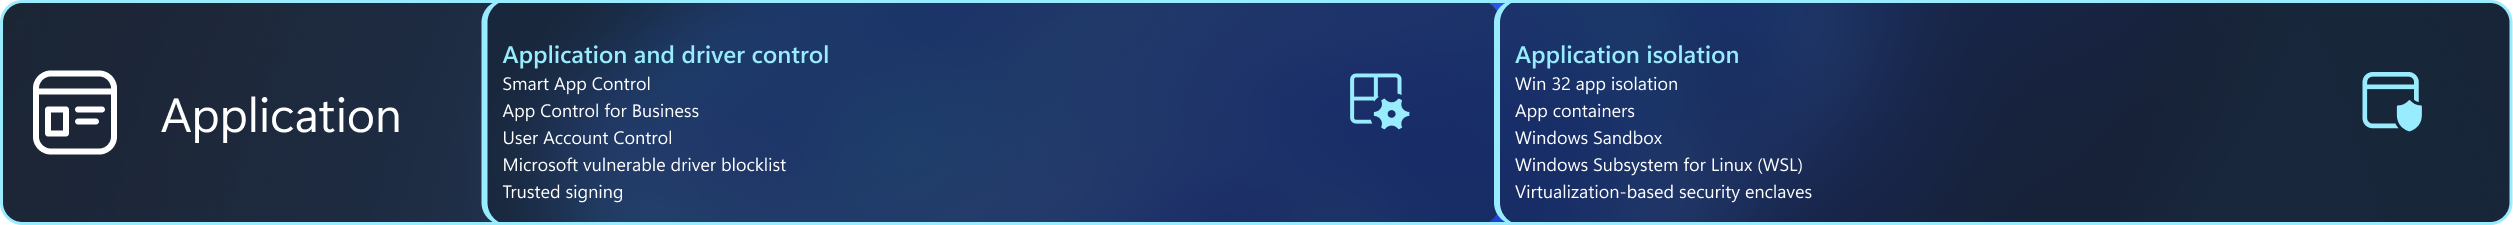
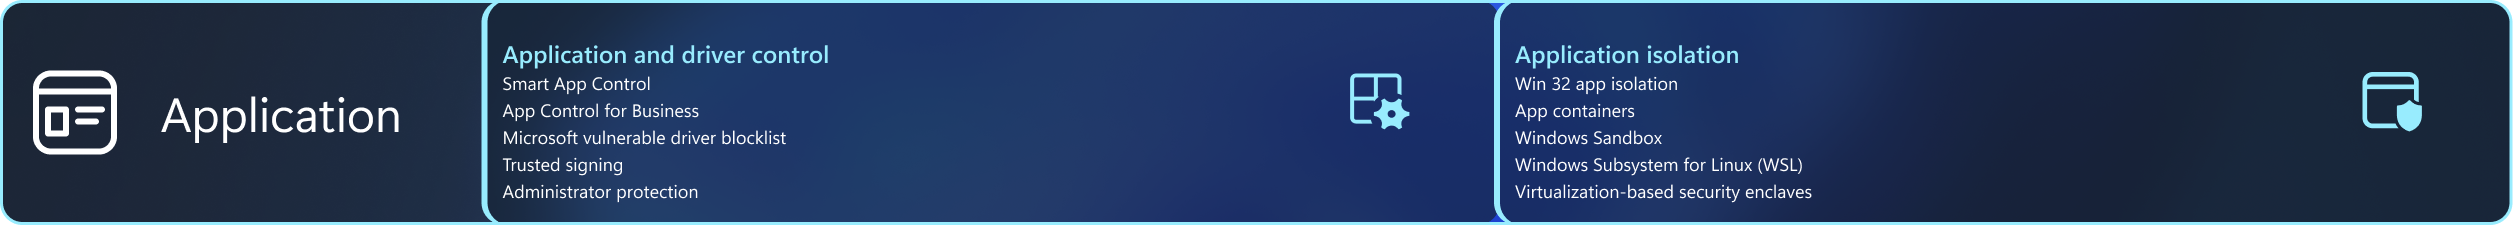
removed uac

Changed region(s): [[0.1862, 0.8089, 0.2793, 0.9022], [0.1862, 0.7156, 0.3104, 0.7778], [0.1862, 0.5911, 0.3104, 0.6533]]

diff --git a/windows/security/book/features-index.md b/windows/security/book/features-index.md
@@ -7,4 +7,4 @@ ms.date: 09/06/2024
 
 # Features index
 
-[5G and eSIM](operating-system-security-network-security.md#5g-and-esim)<br>[Access management and control](identity-protection-advanced-credential-protection.md#access-management-and-control)<br>[Account lockout policies](identity-protection-advanced-credential-protection.md#account-lockout-policies)<br>[App containers](application-security-application-isolation.md#app-containers)<br>[App Control for Business](application-security-application-and-driver-control.md#app-control-for-business)<br>[Attack surface reduction rules](operating-system-security-virus-and-threat-protection.md#attack-surface-reduction-rules)<br>[BitLocker To Go](operating-system-security-encryption-and-data-protection.md#bitlocker-to-go)<br>[BitLocker](operating-system-security-encryption-and-data-protection.md#bitlocker)<br>[Bluetooth protection](operating-system-security-network-security.md#bluetooth-protection)<br>[Certificates](operating-system-security-system-security.md#certificates)<br>[Cloud-native device management](cloud-services-protect-your-work-information.md#cloud-native-device-management)<br>[Code signing and integrity](operating-system-security-system-security.md#code-signing-and-integrity)<br>[Common Criteria (CC)](security-foundation-certification.md#common-criteria-cc)<br>[Config Refresh](operating-system-security-system-security.md#-config-refresh)<br>[Controlled folder access](operating-system-security-virus-and-threat-protection.md#controlled-folder-access)<br>[Credential Guard](identity-protection-advanced-credential-protection.md#credential-guard)<br>[Cryptography](operating-system-security-system-security.md#cryptography)<br>[Device Encryption](operating-system-security-encryption-and-data-protection.md#device-encryption)<br>[Device health attestation](operating-system-security-system-security.md#device-health-attestation)<br>[Domain Name System (DNS) security](operating-system-security-network-security.md#domain-name-system-dns-security)<br>[Email encryption](operating-system-security-encryption-and-data-protection.md#email-encryption)<br>[Encrypted hard drive](operating-system-security-encryption-and-data-protection.md#encrypted-hard-drive)<br>[Enhanced phishing protection in Microsoft Defender SmartScreen](identity-protection-passwordless-sign-in.md#enhanced-phishing-protection-in-microsoft-defender-smartscreen)<br>[Enhanced Sign-in Security (ESS)](identity-protection-passwordless-sign-in.md#enhanced-sign-in-security-ess)<br>[Exploit protection](operating-system-security-virus-and-threat-protection.md#exploit-protection)<br>[Federal Information Processing Standard (FIPS)](security-foundation-certification.md#federal-information-processing-standard-fips)<br>[Federated sign-in](identity-protection-passwordless-sign-in.md#federated-sign-in)<br>[FIDO2](identity-protection-passwordless-sign-in.md#fido2)<br>[Find my device](cloud-services-protect-your-personal-information.md#find-my-device)<br>[Kernel Direct Memory Access (DMA) protection](hardware-security-silicon-assisted-security.md#kernel-direct-memory-access-dma-protection)<br>[Kiosk mode](operating-system-security-system-security.md#kiosk-mode)<br>[Local Security Authority (LSA) protection](identity-protection-advanced-credential-protection.md#local-security-authority-lsa-protection)<br>[Microsoft Account](cloud-services-protect-your-personal-information.md#microsoft-account)<br>[Microsoft Authenticator](identity-protection-passwordless-sign-in.md#microsoft-authenticator)<br>[Microsoft Azure Attestation Service](cloud-services-protect-your-work-information.md#microsoft-azure-attestation-service)<br>[Microsoft Defender Antivirus](operating-system-security-virus-and-threat-protection.md#microsoft-defender-antivirus)<br>[Microsoft Defender for Endpoint](operating-system-security-virus-and-threat-protection.md#microsoft-defender-for-endpoint)<br>[Microsoft Defender SmartScreen](operating-system-security-virus-and-threat-protection.md#microsoft-defender-smartscreen)<br>[Microsoft Entra ID](cloud-services-protect-your-work-information.md#microsoft-entra-id)<br>[Microsoft Intune](cloud-services-protect-your-work-information.md#microsoft-intune)<br>[Microsoft Offensive Research and Security Engineering](security-foundation-offensive-research.md#microsoft-offensive-research-and-security-engineering)<br>[Microsoft Pluton security processor](hardware-security-hardware-root-of-trust.md#microsoft-pluton-security-processor)<br>[Microsoft security baselines](cloud-services-protect-your-work-information.md#microsoft-security-baselines)<br>[Microsoft Security Development Lifecycle (SDL)](security-foundation-offensive-research.md#microsoft-security-development-lifecycle-sdl)<br>[Microsoft vulnerable driver blocklist](application-security-application-and-driver-control.md#microsoft-vulnerable-driver-blocklist)<br>[Network protection](operating-system-security-virus-and-threat-protection.md#network-protection)<br>[OneDrive for personal](cloud-services-protect-your-personal-information.md#onedrive-for-personal)<br>[OneDrive for work or school](cloud-services-protect-your-work-information.md#onedrive-for-work-or-school)<br>[OneDrive Personal Vault](cloud-services-protect-your-personal-information.md#onedrive-personal-vault)<br>[OneFuzz service](security-foundation-offensive-research.md#onefuzz-service)<br>[Personal data encryption (PDE)](operating-system-security-encryption-and-data-protection.md#personal-data-encryption-pde)<br>[Privacy dashboard and report](privacy-controls.md#privacy-dashboard-and-report)<br>[Privacy resource usage](privacy-controls.md#privacy-resource-usage)<br>[Privacy transparency and controls](privacy-controls.md#privacy-transparency-and-controls)<br>[Remote Credential Guard](identity-protection-advanced-credential-protection.md#remote-credential-guard)<br>[Remote Wipe](cloud-services-protect-your-work-information.md#remote-wipe)<br>[Rust in Windows](operating-system-security-system-security.md#-rust-in-windows)<br>[Secure Future Initiative (SFI)](security-foundation-offensive-research.md#secure-future-initiative-sfi)<br>[Secured kernel](hardware-security-silicon-assisted-security.md#secured-kernel)<br>[Secured-core PC](hardware-security-silicon-assisted-security.md#secured-core-pc)<br>[Server Message Block file services](operating-system-security-network-security.md#server-message-block-file-services)<br>[Smart App Control](application-security-application-and-driver-control.md#smart-app-control)<br>[Smart cards](identity-protection-passwordless-sign-in.md#smart-cards)<br>[Software bill of materials (SBOM)](security-foundation-secure-supply-chain.md#software-bill-of-materials-sbom)<br>[Tamper protection](operating-system-security-virus-and-threat-protection.md#tamper-protection)<br>[Token protection (preview)](identity-protection-advanced-credential-protection.md#token-protection-preview)<br>[Transport Layer Security (TLS)](operating-system-security-network-security.md#transport-layer-security-tls)<br>[Trusted Boot (Secure Boot + Measured Boot)](operating-system-security-system-security.md#trusted-boot-secure-boot--measured-boot)<br>[Trusted Platform Module (TPM)](hardware-security-hardware-root-of-trust.md#trusted-platform-module-tpm)<br>[Trusted signing](application-security-application-and-driver-control.md#-trusted-signing)<br>[Universal Print](cloud-services-protect-your-work-information.md#universal-print)<br>[User Account Control](application-security-application-and-driver-control.md#user-account-control)<br>[VBS key protection](identity-protection-advanced-credential-protection.md#-vbs-key-protection)<br>[Virtual private networks (VPN)](operating-system-security-network-security.md#virtual-private-networks-vpn)<br>[Virtualization-based security enclaves](application-security-application-isolation.md#-virtualization-based-security-enclaves)<br>[Web sign-in](identity-protection-passwordless-sign-in.md#web-sign-in)<br>[Wi-Fi connections](operating-system-security-network-security.md#wi-fi-connections)<br>[Win32 app isolation](application-security-application-isolation.md#-win32-app-isolation)<br>[Windows App software development kit (SDK)](security-foundation-secure-supply-chain.md#windows-app-software-development-kit-sdk)<br>[Windows Autopatch](cloud-services-protect-your-work-information.md#windows-autopatch)<br>[Windows Autopilot](cloud-services-protect-your-work-information.md#windows-autopilot)<br>[Windows diagnostic data processor configuration](privacy-controls.md#windows-diagnostic-data-processor-configuration)<br>[Windows enrollment attestation](cloud-services-protect-your-work-information.md#windows-enrollment-attestation)<br>[Windows Firewall](operating-system-security-network-security.md#windows-firewall)<br>[Windows Hello for Business](identity-protection-passwordless-sign-in.md#windows-hello-for-business)<br>[Windows Hello](identity-protection-passwordless-sign-in.md#windows-hello)<br>[Windows Insider and Bug Bounty program](security-foundation-offensive-research.md#windows-insider-and-bug-bounty-program)<br>[Windows Local Administrator Password Solution (LAPS)](cloud-services-protect-your-work-information.md#windows-local-administrator-password-solution-laps)<br>[Windows presence sensing](identity-protection-passwordless-sign-in.md#windows-presence-sensing)<br>[Windows protected print mode](operating-system-security-system-security.md#-windows-protected-print-mode)<br>[Windows Sandbox](application-security-application-isolation.md#windows-sandbox)<br>[Windows security policy settings and auditing](operating-system-security-system-security.md#windows-security-policy-settings-and-auditing)<br>[Windows security settings](operating-system-security-system-security.md#windows-security-settings)<br>[Windows Subsystem for Linux (WSL)](application-security-application-isolation.md#windows-subsystem-for-linux-wsl)<br>[Windows Update for Business](cloud-services-protect-your-work-information.md#windows-update-for-business)
+[5G and eSIM](operating-system-security-network-security.md#5g-and-esim)<br>[Access management and control](identity-protection-advanced-credential-protection.md#access-management-and-control)<br>[Account lockout policies](identity-protection-advanced-credential-protection.md#account-lockout-policies)<br>[App containers](application-security-application-isolation.md#app-containers)<br>[Administrator protection](application-security-application-and-driver-control.md#-administrator-protection)<br>[App Control for Business](application-security-application-and-driver-control.md#app-control-for-business)<br>[Attack surface reduction rules](operating-system-security-virus-and-threat-protection.md#attack-surface-reduction-rules)<br>[BitLocker To Go](operating-system-security-encryption-and-data-protection.md#bitlocker-to-go)<br>[BitLocker](operating-system-security-encryption-and-data-protection.md#bitlocker)<br>[Bluetooth protection](operating-system-security-network-security.md#bluetooth-protection)<br>[Certificates](operating-system-security-system-security.md#certificates)<br>[Cloud-native device management](cloud-services-protect-your-work-information.md#cloud-native-device-management)<br>[Code signing and integrity](operating-system-security-system-security.md#code-signing-and-integrity)<br>[Common Criteria (CC)](security-foundation-certification.md#common-criteria-cc)<br>[Config Refresh](operating-system-security-system-security.md#-config-refresh)<br>[Controlled folder access](operating-system-security-virus-and-threat-protection.md#controlled-folder-access)<br>[Credential Guard](identity-protection-advanced-credential-protection.md#credential-guard)<br>[Cryptography](operating-system-security-system-security.md#cryptography)<br>[Device Encryption](operating-system-security-encryption-and-data-protection.md#device-encryption)<br>[Device health attestation](operating-system-security-system-security.md#device-health-attestation)<br>[Domain Name System (DNS) security](operating-system-security-network-security.md#domain-name-system-dns-security)<br>[Email encryption](operating-system-security-encryption-and-data-protection.md#email-encryption)<br>[Encrypted hard drive](operating-system-security-encryption-and-data-protection.md#encrypted-hard-drive)<br>[Enhanced phishing protection in Microsoft Defender SmartScreen](identity-protection-passwordless-sign-in.md#enhanced-phishing-protection-in-microsoft-defender-smartscreen)<br>[Enhanced Sign-in Security (ESS)](identity-protection-passwordless-sign-in.md#enhanced-sign-in-security-ess)<br>[Exploit protection](operating-system-security-virus-and-threat-protection.md#exploit-protection)<br>[Federal Information Processing Standard (FIPS)](security-foundation-certification.md#federal-information-processing-standard-fips)<br>[Federated sign-in](identity-protection-passwordless-sign-in.md#federated-sign-in)<br>[FIDO2](identity-protection-passwordless-sign-in.md#fido2)<br>[Find my device](cloud-services-protect-your-personal-information.md#find-my-device)<br>[Kernel Direct Memory Access (DMA) protection](hardware-security-silicon-assisted-security.md#kernel-direct-memory-access-dma-protection)<br>[Kiosk mode](operating-system-security-system-security.md#kiosk-mode)<br>[Local Security Authority (LSA) protection](identity-protection-advanced-credential-protection.md#local-security-authority-lsa-protection)<br>[Microsoft Account](cloud-services-protect-your-personal-information.md#microsoft-account)<br>[Microsoft Authenticator](identity-protection-passwordless-sign-in.md#microsoft-authenticator)<br>[Microsoft Azure Attestation Service](cloud-services-protect-your-work-information.md#microsoft-azure-attestation-service)<br>[Microsoft Defender Antivirus](operating-system-security-virus-and-threat-protection.md#microsoft-defender-antivirus)<br>[Microsoft Defender for Endpoint](operating-system-security-virus-and-threat-protection.md#microsoft-defender-for-endpoint)<br>[Microsoft Defender SmartScreen](operating-system-security-virus-and-threat-protection.md#microsoft-defender-smartscreen)<br>[Microsoft Entra ID](cloud-services-protect-your-work-information.md#microsoft-entra-id)<br>[Microsoft Intune](cloud-services-protect-your-work-information.md#microsoft-intune)<br>[Microsoft Offensive Research and Security Engineering](security-foundation-offensive-research.md#microsoft-offensive-research-and-security-engineering)<br>[Microsoft Pluton security processor](hardware-security-hardware-root-of-trust.md#microsoft-pluton-security-processor)<br>[Microsoft security baselines](cloud-services-protect-your-work-information.md#microsoft-security-baselines)<br>[Microsoft Security Development Lifecycle (SDL)](security-foundation-offensive-research.md#microsoft-security-development-lifecycle-sdl)<br>[Microsoft vulnerable driver blocklist](application-security-application-and-driver-control.md#microsoft-vulnerable-driver-blocklist)<br>[Network protection](operating-system-security-virus-and-threat-protection.md#network-protection)<br>[OneDrive for personal](cloud-services-protect-your-personal-information.md#onedrive-for-personal)<br>[OneDrive for work or school](cloud-services-protect-your-work-information.md#onedrive-for-work-or-school)<br>[OneDrive Personal Vault](cloud-services-protect-your-personal-information.md#onedrive-personal-vault)<br>[OneFuzz service](security-foundation-offensive-research.md#onefuzz-service)<br>[Personal data encryption (PDE)](operating-system-security-encryption-and-data-protection.md#personal-data-encryption-pde)<br>[Privacy dashboard and report](privacy-controls.md#privacy-dashboard-and-report)<br>[Privacy resource usage](privacy-controls.md#privacy-resource-usage)<br>[Privacy transparency and controls](privacy-controls.md#privacy-transparency-and-controls)<br>[Remote Credential Guard](identity-protection-advanced-credential-protection.md#remote-credential-guard)<br>[Remote Wipe](cloud-services-protect-your-work-information.md#remote-wipe)<br>[Rust in Windows](operating-system-security-system-security.md#-rust-in-windows)<br>[Secure Future Initiative (SFI)](security-foundation-offensive-research.md#secure-future-initiative-sfi)<br>[Secured kernel](hardware-security-silicon-assisted-security.md#secured-kernel)<br>[Secured-core PC](hardware-security-silicon-assisted-security.md#secured-core-pc)<br>[Server Message Block file services](operating-system-security-network-security.md#server-message-block-file-services)<br>[Smart App Control](application-security-application-and-driver-control.md#smart-app-control)<br>[Smart cards](identity-protection-passwordless-sign-in.md#smart-cards)<br>[Software bill of materials (SBOM)](security-foundation-secure-supply-chain.md#software-bill-of-materials-sbom)<br>[Tamper protection](operating-system-security-virus-and-threat-protection.md#tamper-protection)<br>[Token protection (preview)](identity-protection-advanced-credential-protection.md#token-protection-preview)<br>[Transport Layer Security (TLS)](operating-system-security-network-security.md#transport-layer-security-tls)<br>[Trusted Boot (Secure Boot + Measured Boot)](operating-system-security-system-security.md#trusted-boot-secure-boot--measured-boot)<br>[Trusted Platform Module (TPM)](hardware-security-hardware-root-of-trust.md#trusted-platform-module-tpm)<br>[Trusted signing](application-security-application-and-driver-control.md#-trusted-signing)<br>[Universal Print](cloud-services-protect-your-work-information.md#universal-print)<br>[VBS key protection](identity-protection-advanced-credential-protection.md#-vbs-key-protection)<br>[Virtual private networks (VPN)](operating-system-security-network-security.md#virtual-private-networks-vpn)<br>[Virtualization-based security enclaves](application-security-application-isolation.md#-virtualization-based-security-enclaves)<br>[Web sign-in](identity-protection-passwordless-sign-in.md#web-sign-in)<br>[Wi-Fi connections](operating-system-security-network-security.md#wi-fi-connections)<br>[Win32 app isolation](application-security-application-isolation.md#-win32-app-isolation)<br>[Windows App software development kit (SDK)](security-foundation-secure-supply-chain.md#windows-app-software-development-kit-sdk)<br>[Windows Autopatch](cloud-services-protect-your-work-information.md#windows-autopatch)<br>[Windows Autopilot](cloud-services-protect-your-work-information.md#windows-autopilot)<br>[Windows diagnostic data processor configuration](privacy-controls.md#windows-diagnostic-data-processor-configuration)<br>[Windows enrollment attestation](cloud-services-protect-your-work-information.md#windows-enrollment-attestation)<br>[Windows Firewall](operating-system-security-network-security.md#windows-firewall)<br>[Windows Hello for Business](identity-protection-passwordless-sign-in.md#windows-hello-for-business)<br>[Windows Hello](identity-protection-passwordless-sign-in.md#windows-hello)<br>[Windows Insider and Bug Bounty program](security-foundation-offensive-research.md#windows-insider-and-bug-bounty-program)<br>[Windows Local Administrator Password Solution (LAPS)](cloud-services-protect-your-work-information.md#windows-local-administrator-password-solution-laps)<br>[Windows presence sensing](identity-protection-passwordless-sign-in.md#windows-presence-sensing)<br>[Windows protected print mode](operating-system-security-system-security.md#-windows-protected-print-mode)<br>[Windows Sandbox](application-security-application-isolation.md#windows-sandbox)<br>[Windows security policy settings and auditing](operating-system-security-system-security.md#windows-security-policy-settings-and-auditing)<br>[Windows security settings](operating-system-security-system-security.md#windows-security-settings)<br>[Windows Subsystem for Linux (WSL)](application-security-application-isolation.md#windows-subsystem-for-linux-wsl)<br>[Windows Update for Business](cloud-services-protect-your-work-information.md#windows-update-for-business)

diff --git a/windows/security/book/application-security-application-and-driver-control.md b/windows/security/book/application-security-application-and-driver-control.md
@@ -45,22 +45,15 @@ Customers can use some built-in options for App Control for Business or upload t
 - [Application Control for Windows][LINK-2]
 - [Automatically allow apps deployed by a managed installer with App Control for Business][LINK-3]
 
-## User Account Control
+## :::image type="icon" source="images/soon-button-title.svg" border="false"::: Administrator protection
 
-User Account Control (UAC) helps prevent malware from damaging a PC and enables organizations to deploy a better-managed desktop. With UAC, apps and tasks always run in the security context of a non-administrator account unless an administrator specifically authorizes administrator-level access to the system. UAC can block the automatic installation of unauthorized apps and prevent inadvertent changes to system settings.
+Most people run as full admins on their devices, which means apps and services have the same access to the kernel and other critical services as users. And the problem is that these apps and services can access critical resources without the user knowing. This is why Windows is being updated to require just in time administrative access to the kernel and other critical services as needed, not all the time, and certainly not by default. This makes it harder for an app to unexpectedly abuse admin privileges and secretly put malware or malicious code on Windows.
 
-Organizations can use a device management solution like Microsoft Intune to remotely configure UAC settings. For those without such a solution, settings can be adjusted directly on the device.
+When Administrator protection is enabled, if an app needs special permissions like administrative rights, you'll be asked for approval. When an approval is needed, Windows Hello provides a secure and easy way to approve or deny these requests, giving you, and only you, full control over your device.
 
-Enabling UAC helps prevent malware from altering PC settings and potentially gaining access to networks and sensitive data. UAC can also block the automatic installation of unauthorized
-apps and prevent inadvertent changes to system settings.
+This helps reduce elevation of privilege (EOP) attacks on Windows where admin privileges are abused. The feature is currently in preview available on Windows Insider channel.
 
-Users with standard accounts, or those using administrative accounts with UAC enabled, run most programs with limited access rights. This includes the Windows shell and any apps started from the shell, such as Windows Explorer, a web browser, productivity suite, graphics programs, or games.
-
-Some apps require more permissions and won't work properly (or at all) when running with limited permissions. When an app needs to run with more than standard user rights, UAC allows users to run apps with a *full* administrator token (with administrative groups and privileges) instead of their default user access token. Users continue to operate in the standard user security context while enabling certain executables to run with elevated privileges if needed.
-
-[!INCLUDE [learn-more](includes/learn-more.md)]
-
-- [How User Account Control works](/windows/security/identity-protection/user-account-control/how-user-account-control-works)
+Replacement for [User Account Control](/windows/security/identity-protection/user-account-control/how-user-account-control-works).
 
 ## Microsoft vulnerable driver blocklist
 

diff --git a/windows/security/book/identity-protection-advanced-credential-protection.md b/windows/security/book/identity-protection-advanced-credential-protection.md
@@ -108,14 +108,6 @@ IT administrators can refine the application and management of access to:
 
 - [Access control][LINK-7]
 
-## :::image type="icon" source="images/soon-button-title.svg" border="false"::: Administrator protection
-
-Most people run as full admins on their devices, which means apps and services have the same access to the kernel and other critical services as users. And the problem is that these apps and services can access critical resources without the user knowing. This is why Windows is being updated to require just in time administrative access to the kernel and other critical services as needed, not all the time, and certainly not by default. This makes it harder for an app to unexpectedly abuse admin privileges and secretly put malware or malicious code on Windows.
-
-When Administrator protection is enabled, if an app needs special permissions like administrative rights, you'll be asked for approval. When an approval is needed, Windows Hello provides a secure and easy way to approve or deny these requests, giving you, and only you, full control over your device.
-
-This helps reduce elevation of privilege (EOP) attacks on Windows where admin privileges are abused. The feature is currently in preview available on Windows Insider channel.
-
 <!--links-->
 
 [LINK-2]: /windows-server/security/credentials-protection-and-management/configuring-additional-lsa-protection

diff --git a/windows/security/book/conclusion.md b/windows/security/book/conclusion.md
@@ -15,7 +15,7 @@ We will continue to innovate with security by design and security by default at 
 
 New:
 
-- [Administrator protection](operating-system-security-system-security.md#-administrator-protection)
+- [Administrator protection](application-security-application-and-driver-control.md#-administrator-protection)
 - [Config Refresh](operating-system-security-system-security.md#-config-refresh)
 - [Rust in Windows](operating-system-security-system-security.md#-rust-in-windows)
 - [Trusted signing](application-security-application-and-driver-control.md#-trusted-signing)
